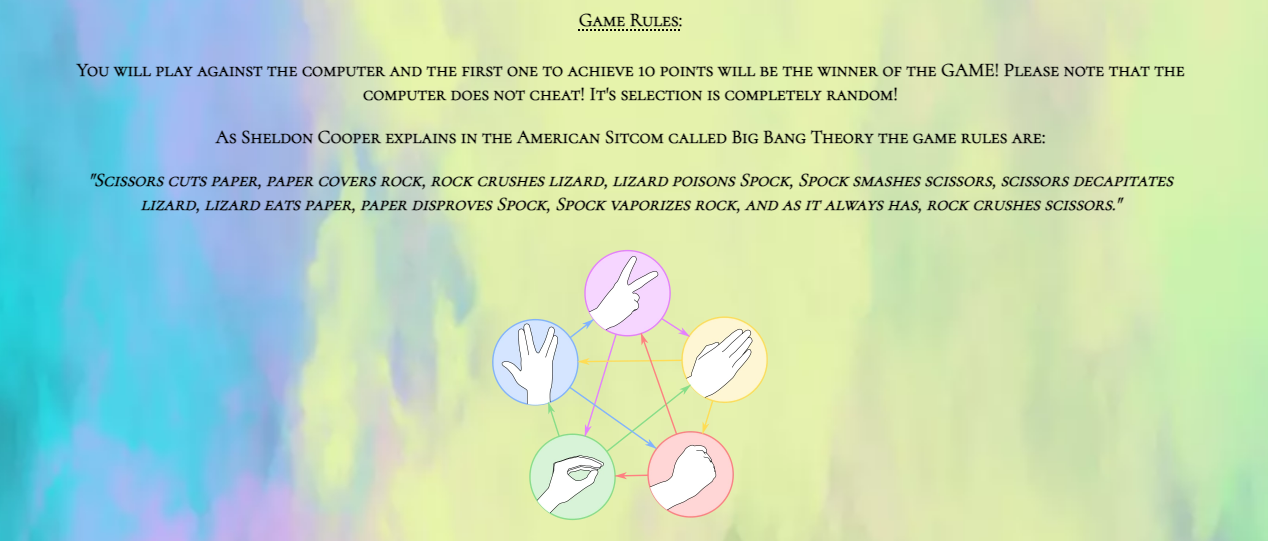
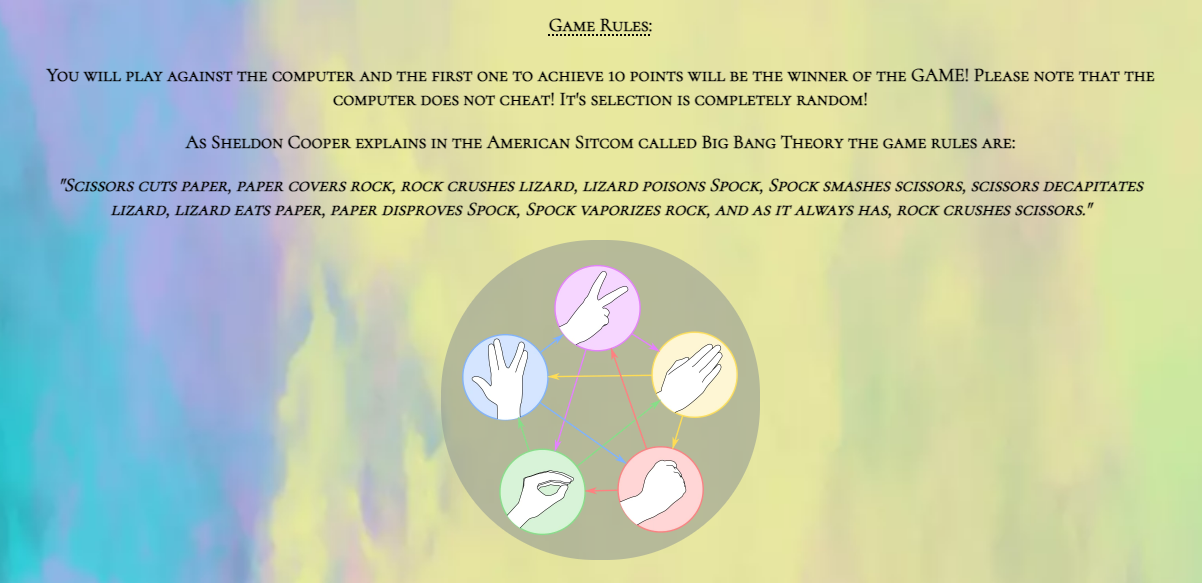
add Game Page section to Features for README.md file

diff --git a/assets/css/style.css b/assets/css/style.css
@@ -70,7 +70,7 @@ body {
 #rules-img {
     width: 300px;
     height: 300px;
-    background-color: rgb(150, 156, 148);
+    background-color: rgb(150, 156, 148, 0.6);
     border-radius: 154px;
     padding: 0.5em;
 }
@@ -151,6 +151,10 @@ body {
     background-color: transparent;
     border: 2.5px dotted black;
     border-radius: 25px;
+}
+
+#restart:hover {
+    font-size: 1.2em;
 }
 
 /* font awesome button choices */

diff --git a/README.md b/README.md
@@ -5,7 +5,7 @@ Welcome to [THE R.P.S.L.S. GAME](https://vivhubb.github.io/bbtheory-game/) websi
 
 THE R.P.S.L.S. GAME site, as the name suggests, is a website which allows users to play a different version of the ROCK-PAPER-SCISSORS game as it is presented in the American Sitcom called The Big Bang Theory. According to [IMDB](https://m.imdb.com/title/tt1256039/trivia/?ref_=tt_ql_trv) the game of "Rock Paper Scissors Lizard Spock" was invented by a software engineer named Sam Kass, who outlined the rules and hand gestures on his website in 1998. He, however, called it "Rock Paper Scissors Spock Lizard".
 
-Upon accessing the website the user will be welcomed by a [Greeting Page](https://vivhubb.github.io/bbtheory-game/) which will display instructions of game rules using a picture and a link to a [Youtube video](https://www.youtube.com/watch?v=x5Q6-wMx-K8").
+Upon accessing the website the user will be welcomed by a [Greeting & Game Rules Page](https://vivhubb.github.io/bbtheory-game/) which will display instructions of game rules using a picture and a link to a [Youtube video](https://www.youtube.com/watch?v=x5Q6-wMx-K8").
 
 At this point the user will have two options to navigate. One of them being the link to the previously mentioned video and the other one will take the user to the [Game Page](https://vivhubb.github.io/bbtheory-game/game.html).
 
@@ -27,8 +27,8 @@ At this point the user will have two options to navigate. One of them being the 
             - [COLOUR SCHEME](#colour-scheme)
         - [**FEATURES**](#features)
             - [EXISTING FEATURES](#existing-features)
-                - [GREETING & GAME RULES PAGE](#greeting--game-rules-page)
-                - [THE GAME PAGE](#the-game-page)
+                - [**GREETING & GAME RULES PAGE**](#greeting--game-rules-page)
+                - [**THE GAME PAGE**](#the-game-page)
 
 <!-- /TOC -->
 
@@ -48,9 +48,9 @@ At this point the user will have two options to navigate. One of them being the 
 
 The WIREFRAMES for THE R.P.S.L.S. GAME website were created using [Balsamiq](https://balsamiq.com/), initially to help visualize the project. The plans slightly differ from the website's final look due to developements and new ideas during creation.
 
-![wireframes01](/assets/readme.images/wireframes01.png) <br>
-![wireframes02](/assets/readme.images/wireframes02.png) &emsp;
-![wireframes03](/assets/readme.images/wireframes03.png)
+![Wireframes website](/assets/readme.images/wireframes01.png) <br>
+![Wireframes tablet](/assets/readme.images/wireframes02.png) &emsp;
+![Wireframes mobile](/assets/readme.images/wireframes03.png)
 
 [JUMP to TOP](<#contents>)
 
@@ -58,7 +58,7 @@ The WIREFRAMES for THE R.P.S.L.S. GAME website were created using [Balsamiq](htt
 
 [THE R.P.S.L.S. GAME](https://vivhubb.github.io/bbtheory-game/) website created for the Rock-Paper-Scissors-Lizard-Spock game has two pages.
 
-* [Greeting Page](https://vivhubb.github.io/bbtheory-game/) which is the default loading page welcoming the user and displaying instructions and game rules.
+* [Greeting & Game Rules Page](https://vivhubb.github.io/bbtheory-game/) which is the default loading page welcoming the user and displaying instructions and game rules.
 * [Game Page](https://vivhubb.github.io/bbtheory-game/game.html) which is holding the game itself.
 
 [JUMP to TOP](<#contents>)
@@ -71,52 +71,91 @@ The chosen font for the website was Cormorant SC, which falls back on serif. The
 
 #### COLOUR SCHEME
 
-The idea for the chosen colour scheme was initiated by the image from the [Greeting Page](https://vivhubb.github.io/bbtheory-game/) that visualizes the game rules. Furthermore, the presence of multiple colors are meant to represent playfulness suggesting "this should be fun".
+The idea for the chosen colour scheme was initiated by the image from the [Greeting & Game Rules Page](https://vivhubb.github.io/bbtheory-game/) that visualizes the game rules. Furthermore, the presence of multiple colors are meant to represent playfulness suggesting "this should be fun".
 
 [Color Picker](https://imagecolorpicker.com/en) was used for building the colour scheme and creating the colour palette.
 
-![colour palette](/assets/readme.images/palette.png)
+![Colour Palette](/assets/readme.images/palette.png)
+
+[JUMP to TOP](<#contents>)
 
 ### **FEATURES**
 
 #### EXISTING FEATURES
 
-##### GREETING & GAME RULES PAGE
+##### **GREETING & GAME RULES PAGE**
 
 * **Title**
 
 **The main title** displays Rock-Paper-Scissors-Lizard-Spock stating clearly what the website is about. <br>
-**The subtitle** displays -The Big Bang Theory Game- complementing the main title and giving further explanation on the website's theme and purpose.
+**The subtitle** displays -The Big Bang Theory Game- complementing the main title and giving further explanation on the website's thematics and purpose.
 
-![title](/assets/readme.images/title.png)
+![Title](/assets/readme.images/title.png)
 
 * **Greeting**
 
 The title is followed by a greeting for the user:
 
-![greeting](/assets/readme.images/greeting.png)
+![Greeting](/assets/readme.images/greeting.png)
 
 * **Navigation**
 
 The greeting is followed by a link to the [Game Page](https://vivhubb.github.io/bbtheory-game/game.html) in the case that the user is already familiar with the game rules.
 
-![link01](/assets/readme.images/link01.png)
+![Link to the Game Page](/assets/readme.images/link01.png)
 
 * **Game Rules Section**
 
 This section displays clear instructions for the user on how to play the game and explains the score that needs to be achieved for a winner to be called. The basic rules are listed and visualized with a picture as well. It also ensures the user that the choice made by the computer is completely random so they have equal chances of winning the game.
 
-![game rules](/assets/readme.images/game-rules.png)
+![Game Rules](/assets/readme.images/game-rules.png)
 
 * **Links**
 
 This is followed by a link that will take the user to the [Game Page](https://vivhubb.github.io/bbtheory-game/game.html).
 
-![let's play](/assets/readme.images/link02.png)
+![Link to the Game Page](/assets/readme.images/link02.png)
 
 Aditionally, there is a link that will take the user to a funny youtube video, which is a part from the American Sitcom called The Big Bang Theory, where one of the main characters explains the game rules to his friends.
 
-![youtube video](/assets/readme.images/link03.png)
+![Youtube Video](/assets/readme.images/link03.png)
 
-##### THE GAME PAGE
+##### **THE GAME PAGE**
 
+* **Title**
+
+**The main title** displays Rock-Paper-Scissors-Lizard-Spock stating clearly what the website is about. <br>
+**The subtitle** displays -The Big Bang Theory Game- complementing the main title and giving further explanation on the website's thematics and purpose.
+
+![Game Page Title](/assets/readme.images/title02.png)
+
+* **Link**
+
+Below the title there is a link that will take the user back to the [Game Rules Page](https://vivhubb.github.io/bbtheory-game/).
+
+![Link to the Game Rules Page](/assets/readme.images/link04.png)
+
+* **Game Area**
+
+The next section is the game area itself which starts off completely empty and it displays the Player score and the Computer score initially starting at 0.
+
+![Game area empty](/assets/readme.images/game-area01.png)
+
+As soon as the user starts playing, both the Player zone and the Computer zone will display the choices and keep track of the scores.
+
+![Game area](/assets/readme.images/game-area02.png)
+
+Below the game area there are two sections displaying feedback messages for the user regarding the outcome of each round. The first section will display the rules applied for the choices made in the respective round while the second one will confirm who gets the score for that round.
+
+![explain results section](/assets/readme.images/explain-results.png)
+
+Under this section are displayed all the choices available for the user. The buttons are changing their color on mouse hover.
+
+![Choices](/assets/readme.images/choices.png) &emsp;
+![Choices on hover](/assets/readme.images/choices-hover.png)
+
+Once the game is over and a winner is called, the buttons for choice options (Rock, Paper, Scissors, Lizard, Spock) will be disabled and a Restart Game option will pop up.
+
+![Game over](/assets/readme.images/game-over.png)
+
+The overall look of the game area can be associated with a "robotic face" which fits well with the site's purpose (being a game) as well as with the theme of The Big Bang Theory, where most of the characters are geniuses and scientists.
